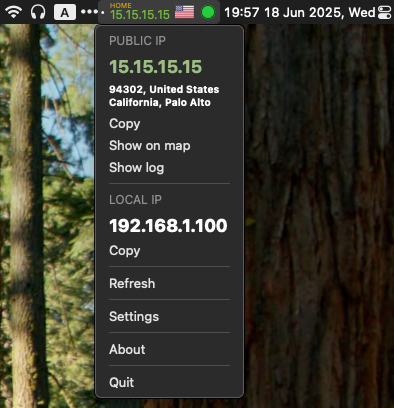
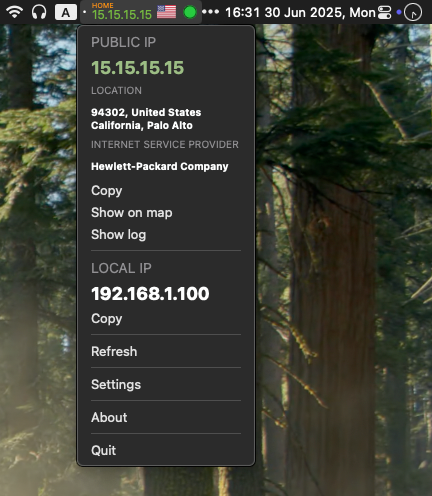
Added ISP info.

diff --git a/MenuBarIP/MenuBarIP/Models/IpInfo.swift b/MenuBarIP/MenuBarIP/Models/IpInfo.swift
@@ -16,6 +16,8 @@ struct IpInfo: Codable, Equatable {
     var countryName: String?
     var regionName: String?
     var cityName: String?
+    var asn: String?
+    var isp: String?
     
     enum CodingKeys: String, CodingKey {
         case ipAddress
@@ -26,6 +28,8 @@ struct IpInfo: Codable, Equatable {
         case countryName
         case regionName
         case cityName
+        case asn
+        case isp
     }
     
     init(ipAddress: String){
@@ -37,6 +41,8 @@ struct IpInfo: Codable, Equatable {
         self.countryName = String()
         self.regionName = String()
         self.cityName = String()
+        self.asn = String()
+        self.isp = String()
     }
     
     static func == (lhs: IpInfo, rhs: IpInfo) -> Bool {
@@ -71,7 +77,11 @@ struct IpInfo: Codable, Equatable {
         
         let result = data.enumerated().reduce(String()) { partialResult, pair in
             let (index, element) = pair
-            let separator = index == 0 ? String() : ((index % 2 == 0) ? "\n" : ", ")
+            let separator = index == 0
+                ? String()
+                : ((index % 2 == 0)
+                   ? Constants.newLine
+                   : Constants.commaSeparator)
             return partialResult + separator + element
         }
         
@@ -79,15 +89,94 @@ struct IpInfo: Codable, Equatable {
     }
     
     func hasLocation() -> Bool {
-        let emptyString = String()
         let emptyDouble = 0.0
         
-        return countryCode != emptyString
+        return !countryCode.isEmpty
         || latitude != emptyDouble
         || longitude != emptyDouble
     }
     
     func hasPhysicalLocation() -> Bool {
         return countryName != String()
+    }
+    
+    func hasIspInfo() -> Bool {
+        guard asn != nil || isp != nil else { return false }
+        guard !(asn?.isEmpty ?? true) || !(isp?.isEmpty ?? true)
+        else { return false }
+        
+        return true
+    }
+    
+    func asIspInfoString() -> String {
+        guard hasIspInfo() else { return String() }
+        
+        var data = [String]()
+        
+        if let currentAsn = asn, !currentAsn.isEmpty {
+            data.append(currentAsn)
+        }
+        
+        if let currentIsp = isp, !currentIsp.isEmpty {
+            if data.count > 0 {
+                data.append(" \(Constants.hyphen) ")
+            }
+            data.append(currentIsp)
+        }
+        
+        var result = data.joined().description
+        
+        if result.count > Constants.maxMenuLineLength {
+            data = splitIntoLines(result, lines: data)
+            
+            result = data.joined(separator: Constants.newLine)
+        }
+        
+        return result
+    }
+    
+    // MARK: Privat functions
+    
+    private func splitIntoLines(_ string: String, lines: [String]) -> [String] {
+        let words = string.split(separator: Constants.space).map { String($0) }
+        var currentLine = String()
+        var result = [String]()
+        
+        for word in words {
+            if currentLine.isEmpty {
+                if word.count <=  Constants.maxMenuLineLength {
+                    currentLine = word
+                } else {
+                    var remaining = word
+                    
+                    while !remaining.isEmpty {
+                        let takeCount = min(Constants.maxMenuLineLength, remaining.count)
+                        result.append(String(remaining.prefix(takeCount)))
+                        remaining = String(remaining.dropFirst(takeCount))
+                    }
+                }
+            } else if (currentLine.count + 1 + word.count) <= Constants.maxMenuLineLength {
+                currentLine += " \(word)"
+            } else {
+                result.append(currentLine)
+                if word.count <= Constants.maxMenuLineLength {
+                    currentLine = word
+                } else {
+                    var remaining = word
+                    while !remaining.isEmpty {
+                        let takeCount = min(Constants.maxMenuLineLength, remaining.count)
+                        result.append(String(remaining.prefix(takeCount)))
+                        remaining = String(remaining.dropFirst(takeCount))
+                    }
+                    currentLine = String()
+                }
+            }
+        }
+        
+        if !currentLine.isEmpty {
+            result.append(currentLine)
+        }
+        
+        return result
     }
 }

diff --git a/MenuBarIP/MenuBarIP/Views/Implementation/MenuBar/MenuBarMenuView.swift b/MenuBarIP/MenuBarIP/Views/Implementation/MenuBar/MenuBarMenuView.swift
@@ -28,11 +28,25 @@ struct MenuBarMenuView : IpAddressContainerView {
                     forMenu: true))
                 .asMenuItemIp()
             VStack {
-                Text(appState.network.publicIp?.asPhysicalAddressString() ?? String())
-                    .font(.system(size: 10))
-                    .bold()
-                    .foregroundStyle(getBaseColor(colorScheme: appState.current.colorScheme, forMenu: true))
-                    .isHidden(hidden: !(appState.network.publicIp?.hasPhysicalLocation() ?? false), remove: true)
+                VStack() {
+                    Text(Constants.location.uppercased())
+                        .asMenuItemHeaderSmall()
+                    Text(appState.network.publicIp?.asPhysicalAddressString() ?? String())
+                        .font(.system(size: 10))
+                        .bold()
+                        .foregroundStyle(getBaseColor(colorScheme: appState.current.colorScheme, forMenu: true))
+                }
+                .isHidden(hidden: !(appState.network.publicIp?.hasPhysicalLocation() ?? false), remove: true)
+                VStack {
+                    Text(Constants.provider.uppercased())
+                        .asMenuItemHeaderSmall()
+                        .padding(0)
+                    Text(appState.network.publicIp?.asIspInfoString() ?? String())
+                        .font(.system(size: 10))
+                        .bold()
+                        .foregroundStyle(getBaseColor(colorScheme: appState.current.colorScheme, forMenu: true))
+                }
+                .isHidden(hidden: !(appState.network.publicIp?.hasIspInfo() ?? false), remove: true)
                 Button(Constants.menuItemCopy) {
                     AppHelper.copyTextToClipboard(text: appState.network.publicIp?.ipAddress ?? String())
                 }
@@ -97,13 +111,18 @@ struct MenuBarMenuView : IpAddressContainerView {
 
 private extension Text {
     func asMenuItemHeader() -> some View {
-        self.font(.system(size: 12))
+        self.font(.system(size: 14))
             .foregroundStyle(.gray)
     }
     
     func asMenuItemIp() -> some View {
         self.font(.system(size: 18))
             .bold()
+    }
+    
+    func asMenuItemHeaderSmall() -> some View {
+        self.font(.system(size: 10))
+            .foregroundStyle(.gray)
     }
 }
 

diff --git a/MenuBarIP/MenuBarIP/Infrastructure/Constants.swift b/MenuBarIP/MenuBarIP/Infrastructure/Constants.swift
@@ -78,7 +78,10 @@ struct Constants{
     static let envPossiblePathes = "/opt/homebrew/bin:/usr/local/bin:/usr/bin:/bin:/usr/sbin:/sbin:/Users/\(NSUserName())/.dotnet/tools"
     static let space = " "
     static let slash = "/"
+    static let maxMenuLineLength = 30
     static let scriptContentPrefix = "#!"
+    static let commaSeparator: String = ", "
+    static let hyphen: String = "-"
 
     
     // MARK: Regexes
@@ -163,6 +166,8 @@ struct Constants{
     static let choose = "Choose"
     static let mappings = "Mappings"
     static let noActiveIpApi = "No active IP API"
+    static let location = "Location"
+    static let provider = "Internet service provider"
     
     // MARK: Settings elements names
     static let settingsElementGeneral = "General"
@@ -352,7 +357,8 @@ struct Constants{
         "regionName" : "regionName",
         "cityName" : "city",
         "latitude" : "lat",
-        "longitude" : "lon"
+        "asn" : "as",
+        "isp" : "isp",
     ]
     
     static let readableIpInfoApiKeyMapping = [
@@ -363,6 +369,8 @@ struct Constants{
         "regionName" : "Region name",
         "cityName" : "City name",
         "latitude" : "Latitude",
-        "longitude" : "Longitude"
+        "longitude" : "Longitude",
+        "asn" : "ASN",
+        "isp" : "ISP",
     ]
 }

diff --git a/MenuBarIP/MenuBarIP/Infrastructure/AppState.swift b/MenuBarIP/MenuBarIP/Infrastructure/AppState.swift
@@ -203,6 +203,7 @@ extension AppState {
             
             if let savedIpInfoApiMapping: [String:String] = readSettingsDictionary(key: Constants.settingsKeyIpInfoMapping) {
                 ipInfoApiKeyMapping = savedIpInfoApiMapping
+                    .mergingMissingPairs(from: Constants.defaultIpInfoApiKeyMapping)
             }
         }
         

diff --git a/MenuBarIP/MenuBarIP/Extensions/DictionaryExtensions.swift b/MenuBarIP/MenuBarIP/Extensions/DictionaryExtensions.swift
@@ -1,0 +1,16 @@
+//
+//  DictionaryExtensions.swift
+//  MenuBarIP
+//
+//  Created by UglyGeorge on 30.06.2025.
+//
+
+import Foundation
+
+extension Dictionary {
+    func mergingMissingPairs(from other: [Key: Value]) -> [Key: Value] {
+        var result = self
+        result.merge(other) { (current, _) in current }
+        return result
+    }
+}
